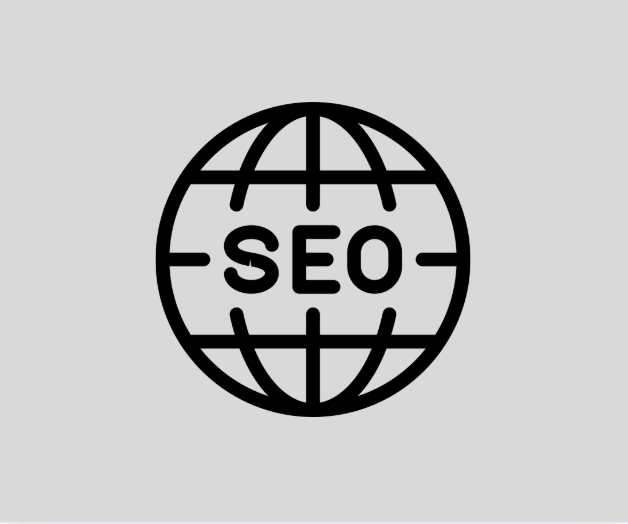
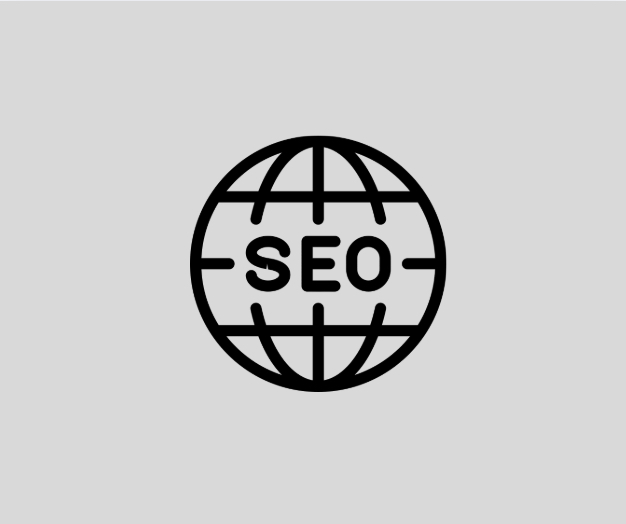
t

Changed region(s): [[0.2428, 0.1832, 0.7588, 0.7939]]

diff --git a/index.html b/index.html
@@ -333,7 +333,6 @@
                             <div class="card project-card">
                                 <img src="assets/images/project1.jpg" class="card-img" alt="Project 1" loading="lazy">
                                 <div class="card-img-overlay">
-                                    <h5 class="card-title text-white">TechStart Organic Growth</h5>
                                     <p class="card-text text-white">Increased organic traffic by 250% in 6 months</p>
                                     <a href="#" class="btn btn-sm btn-primary">View Case Study</a>
                                 </div>
@@ -345,7 +344,6 @@
                             <div class="card project-card">
                                 <img src="assets/images/project2.jpg" class="card-img" alt="Project 2" loading="lazy">
                                 <div class="card-img-overlay">
-                                    <h5 class="card-title text-white">BeautyGlow PPC Campaign</h5>
                                     <p class="card-text text-white">3.5x ROAS with optimized Google Ads</p>
                                     <a href="#" class="btn btn-sm btn-primary">View Case Study</a>
                                 </div>
@@ -357,7 +355,6 @@
                             <div class="card project-card">
                                 <img src="assets/images/project3.jpg" class="card-img" alt="Project 3" loading="lazy">
                                 <div class="card-img-overlay">
-                                    <h5 class="card-title text-white">FreshEats Brand Strategy</h5>
                                     <p class="card-text text-white">800% follower growth and 15k leads</p>
                                     <a href="#" class="btn btn-sm btn-primary">View Case Study</a>
                                 </div>
@@ -369,7 +366,6 @@
                             <div class="card project-card">
                                 <img src="assets/images/project4.jpg" class="card-img" alt="Project 4" loading="lazy">
                                 <div class="card-img-overlay">
-                                    <h5 class="card-title text-white">FinWise Blog Strategy</h5>
                                     <p class="card-text text-white">320% increase in blog traffic & leads</p>
                                     <a href="#" class="btn btn-sm btn-primary">View Case Study</a>
                                 </div>
@@ -381,7 +377,6 @@
                             <div class="card project-card">
                                 <img src="assets/images/project5.jpg" class="card-img" alt="Project 5" loading="lazy">
                                 <div class="card-img-overlay">
-                                    <h5 class="card-title text-white">SportsFit Email Sequence</h5>
                                     <p class="card-text text-white">42% open rate and 28% conversion</p>
                                     <a href="#" class="btn btn-sm btn-primary">View Case Study</a>
                                 </div>
@@ -393,7 +388,6 @@
                             <div class="card project-card">
                                 <img src="assets/images/project6.jpg" class="card-img" alt="Project 6" loading="lazy">
                                 <div class="card-img-overlay">
-                                    <h5 class="card-title text-white">HomeBuilder Rebrand</h5>
                                     <p class="card-text text-white">185% lead increase after rebranding</p>
                                     <a href="#" class="btn btn-sm btn-primary">View Case Study</a>
                                 </div>
@@ -410,7 +404,6 @@
                             <div class="card project-card">
                                 <img src="assets/images/dev-project1.jpg" class="card-img" alt="Development Project 1" loading="lazy">
                                 <div class="card-img-overlay">
-                                    <span class="project-category">Web App</span>
                                     <h5 class="card-title text-white">E-Commerce Platform</h5>
                                     <p class="card-text text-white">Seamless shopping, payments (Stripe), order mgmt</p>
                                     <a href="#" class="btn btn-sm btn-primary">View Project</a>
@@ -423,7 +416,6 @@
                             <div class="card project-card">
                                 <img src="assets/images/dev-project2.jpg" class="card-img" alt="Development Project 2" loading="lazy">
                                 <div class="card-img-overlay">
-                                    <span class="project-category">Mobile App</span>
                                     <h5 class="card-title text-white">Chat App</h5>
                                     <p class="card-text text-white">Real-time messaging with phone number contacts</p>
                                     <a href="#" class="btn btn-sm btn-primary">View Project</a>
@@ -436,8 +428,6 @@
                             <div class="card project-card">
                                 <img src="assets/images/dev-project3.jpg" class="card-img" alt="Development Project 3" loading="lazy">
                                 <div class="card-img-overlay">
-                                    <span class="project-category">Android App</span>
-                                    <h5 class="card-title text-white">Health Tracker</h5>
                                     <p class="card-text text-white">Personalized diet goals + progress tracking</p>
                                     <a href="#" class="btn btn-sm btn-primary">View Project</a>
                                 </div>
@@ -449,8 +439,6 @@
                             <div class="card project-card">
                                 <img src="assets/images/dev-project4.jpg" class="card-img" alt="Development Project 4" loading="lazy">
                                 <div class="card-img-overlay">
-                                    <span class="project-category">Web App</span>
-                                    <h5 class="card-title text-white">Admin Dashboard</h5>
                                     <p class="card-text text-white">Product & order analytics with role access control</p>
                                     <a href="#" class="btn btn-sm btn-primary">View Project</a>
                                 </div>
@@ -462,7 +450,6 @@
                             <div class="card project-card">
                                 <img src="assets/images/dev-project5.jpg" class="card-img" alt="Development Project 5" loading="lazy">
                                 <div class="card-img-overlay">
-                                    <span class="project-category">Python</span>
                                     <h5 class="card-title text-white">Marketing Automation Scripts</h5>
                                     <p class="card-text text-white">Automated reporting, bulk email analysis, and scraping</p>
                                     <a href="#" class="btn btn-sm btn-primary">View Project</a>
@@ -475,7 +462,6 @@
                             <div class="card project-card">
                                 <img src="assets/images/dev-project6.jpg" class="card-img" alt="Development Project 6" loading="lazy">
                                 <div class="card-img-overlay">
-                                    <span class="project-category">Firebase</span>
                                     <h5 class="card-title text-white">Cloud Authentication System</h5>
                                     <p class="card-text text-white">Secure user authentication with Firebase and OAuth</p>
                                     <a href="#" class="btn btn-sm btn-primary">View Project</a>
